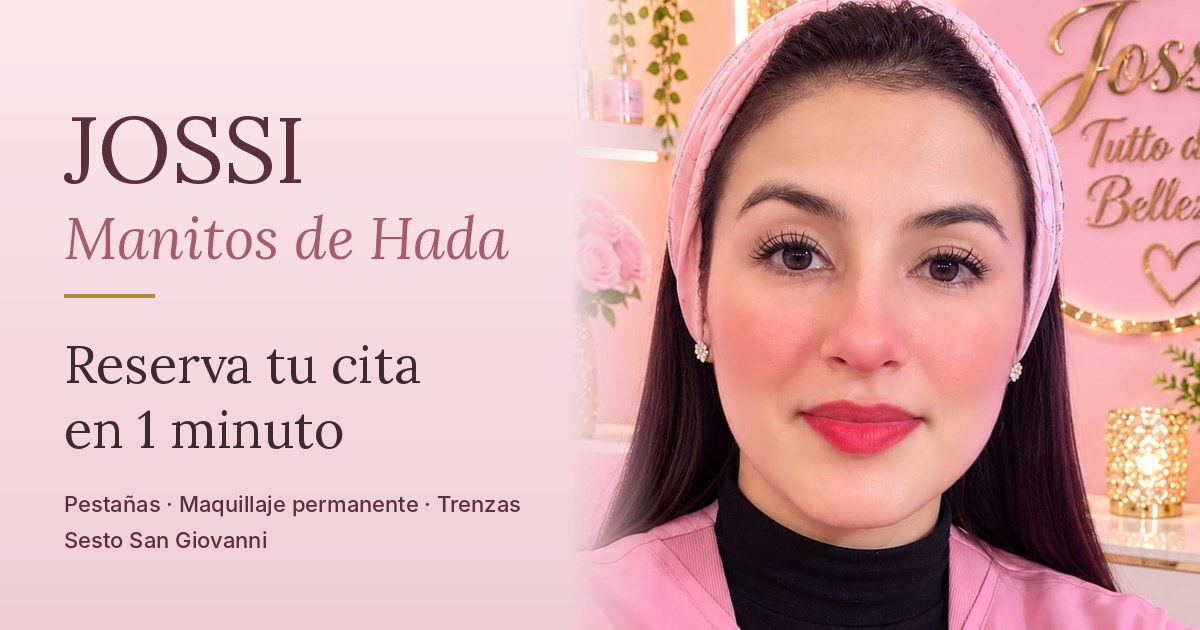
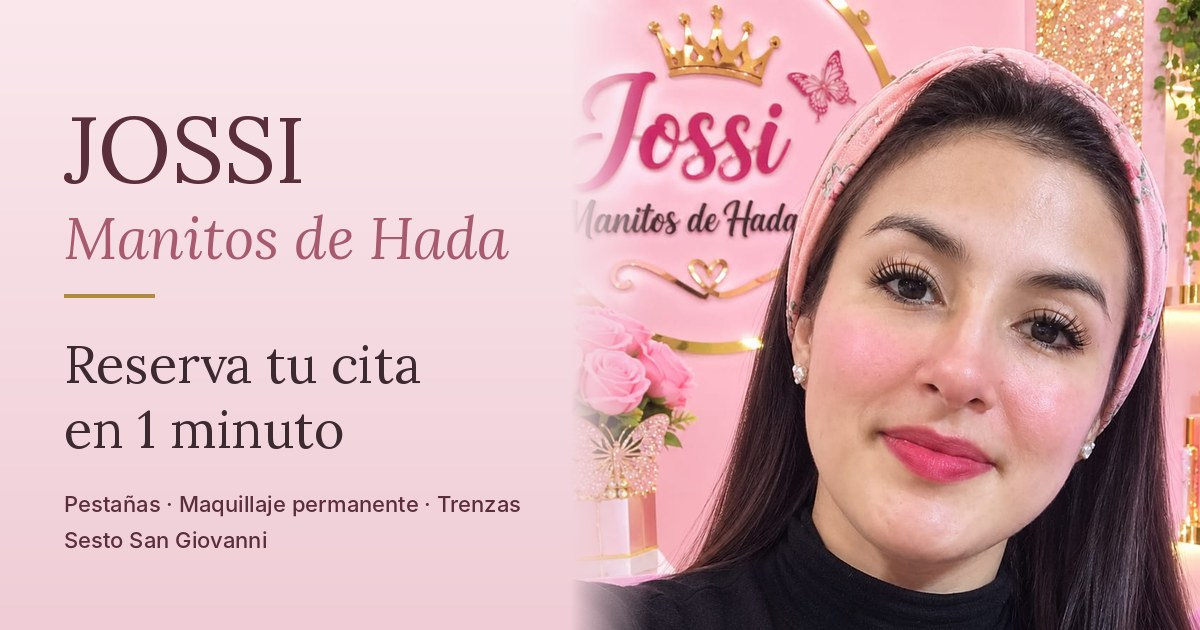
Foto de Jossi con el cartel Manitos de Hada
Claude-Session: https://claude.ai/code/session_017u8JenorKELwgx23JRWZYv

diff --git a/index.html b/index.html
@@ -9,7 +9,7 @@
 <meta property="og:site_name" content="JOSSI · Manitos de Hada">
 <meta property="og:title" content="JOSSI · Manitos de Hada · Reserva tu cita">
 <meta property="og:description" content="Pestañas, maquillaje permanente, glúteos y trenzas en Sesto San Giovanni. Elige servicio, día y hora: te confirmo por WhatsApp.">
-<meta property="og:image" content="https://manitosdehada.pages.dev/fotos/og.jpg?v=3">
+<meta property="og:image" content="https://manitosdehada.pages.dev/fotos/og.jpg?v=4">
 <meta property="og:image:width" content="1200">
 <meta property="og:image:height" content="630">
 <meta name="twitter:card" content="summary_large_image">
@@ -471,7 +471,7 @@ details.it summary{font-weight:600;color:var(--osc);cursor:pointer}
   <!-- ============ INICIO ============ -->
   <div class="view" id="view-home">
     <section class="nhero">
-      <img src="fotos/hero.jpg?v=3" alt="">
+      <img src="fotos/hero.jpg?v=4" alt="">
       <div class="nhero-top">
         <span class="wm"><button type="button" class="crown" id="crown" aria-label="Acceso de Jossi">♛</button><b>JOSSI</b></span>
         <div class="top-r">
